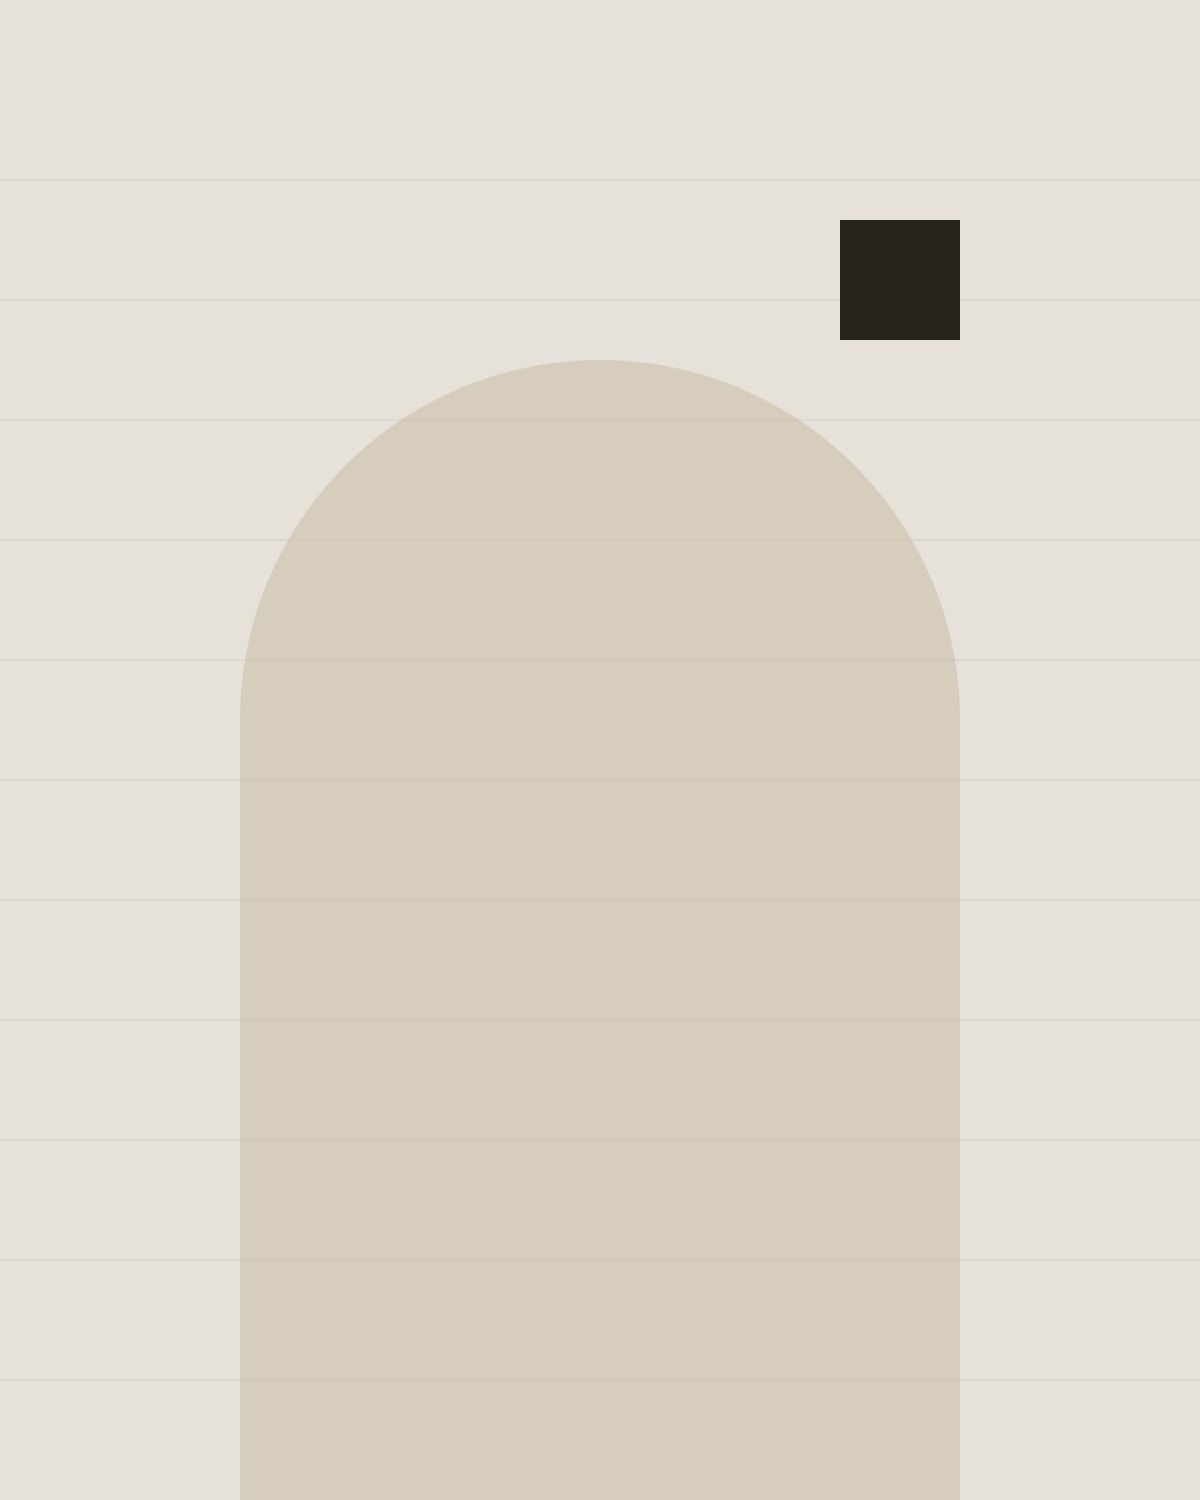
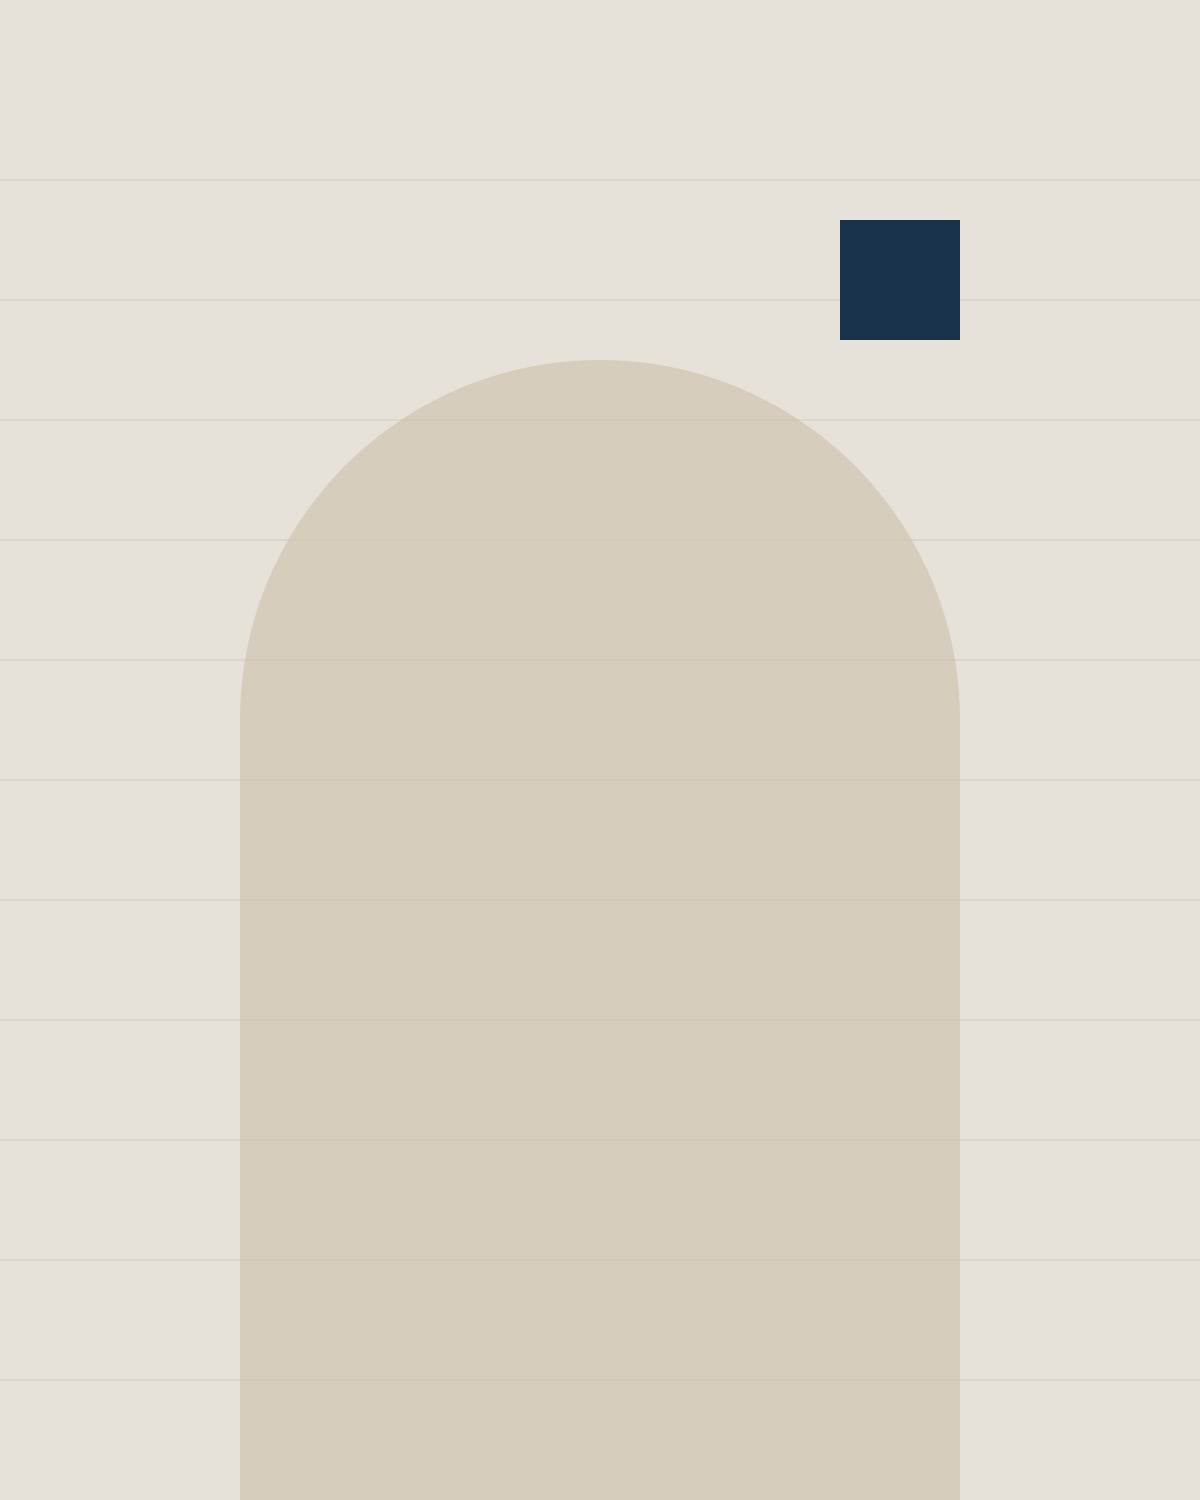
feat(theme): apply navy, brass and cream palette

Changed region(s): [[0.6783, 0.1227, 0.8017, 0.2453]]

diff --git a/src/styles/global.css b/src/styles/global.css
@@ -1,14 +1,15 @@
 @import "tailwindcss";
 
 @theme {
-  /* Palette — warm paper, near-black ink, one clay accent */
-  --color-paper: #faf8f4;
-  --color-paper-deep: #f1ece3;
-  --color-ink: #17140f;
-  --color-ink-soft: #4a443b;
-  --color-muted: #7d766a;
-  --color-line: #e3ddd1;
-  --color-clay: #8a4a32;
+  /* Palette — deep navy, brass accent, warm cream */
+  --color-paper: #f2ede3;
+  --color-paper-deep: #e7e1d3;
+  --color-ink: #17324a;
+  --color-ink-soft: #435769;
+  --color-muted: #5d6e7b;
+  --color-line: #ddd6c7;
+  --color-clay: #b08d57;
+  --color-clay-deep: #8a6a3a;
 
   /* Type */
   --font-sans: "Inter Variable", ui-sans-serif, system-ui, -apple-system, "Segoe UI", sans-serif;
@@ -108,7 +109,7 @@
   }
 
   .link:hover {
-    color: var(--color-clay);
+    color: var(--color-clay-deep);
     text-decoration-color: currentColor;
   }
 
@@ -130,7 +131,7 @@
   }
 
   .arrow-link:hover {
-    color: var(--color-clay);
+    color: var(--color-clay-deep);
   }
 
   .nav-link {
@@ -178,7 +179,7 @@
   .filter-btn.is-active {
     color: var(--color-ink);
     border-color: var(--color-line);
-    background-color: #fffdf9;
+    background-color: var(--color-paper-deep);
   }
 
   /* ------------------------------------------------------- header capsule */
@@ -212,14 +213,15 @@
     border: 1px solid transparent;
     border-radius: 0;
     background-color: transparent;
-    backdrop-filter: blur(30px) saturate(1.6);
+    backdrop-filter: blur(0px) saturate(1);
     transition:
       height 0.55s var(--ease-out-expo),
       max-width 0.6s var(--ease-out-expo),
       border-radius 0.55s var(--ease-out-expo),
       background-color 0.4s var(--ease-out-expo),
       border-color 0.4s var(--ease-out-expo),
-      box-shadow 0.5s var(--ease-out-expo);
+      box-shadow 0.5s var(--ease-out-expo),
+      backdrop-filter 0.4s var(--ease-out-expo);
   }
 
   @media (min-width: 768px) {
@@ -243,9 +245,10 @@
     border-radius: 999px;
     border-color: var(--color-line);
     background-color: color-mix(in srgb, var(--color-paper) 58%, transparent);
+    backdrop-filter: blur(30px) saturate(1.6);
     box-shadow:
-      0 20px 50px -32px rgba(23, 20, 15, 0.45),
-      inset 0 1px 0 rgba(255, 255, 255, 0.45);
+      0 20px 50px -32px color-mix(in srgb, var(--color-ink) 30%, transparent),
+      inset 0 1px 0 color-mix(in srgb, var(--color-paper) 55%, transparent);
   }
 
   .header-shell[data-condensed="true"] .header-inner {
@@ -514,7 +517,7 @@
 }
 
 .editorial-prose a:hover {
-  color: var(--color-clay);
+  color: var(--color-clay-deep);
 }
 
 .editorial-prose blockquote {
